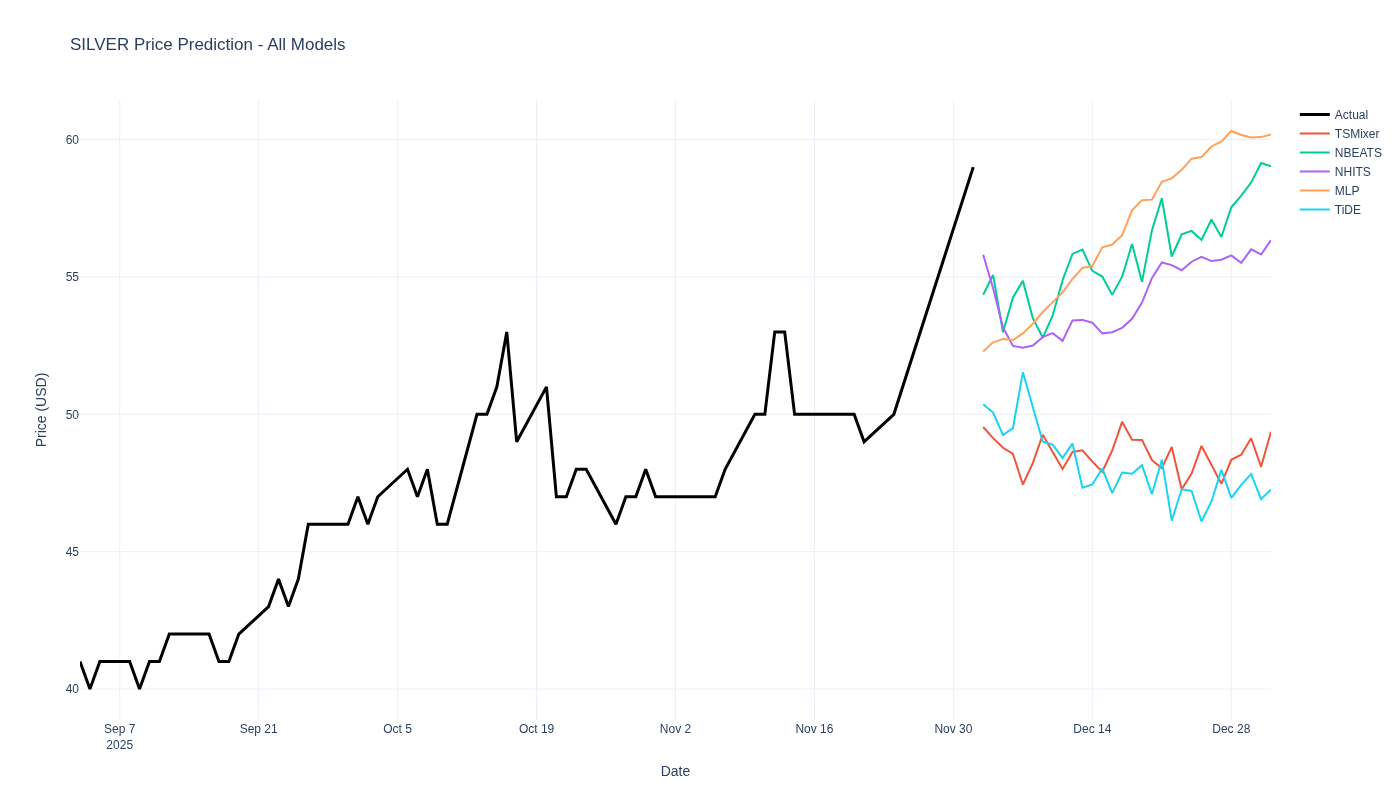
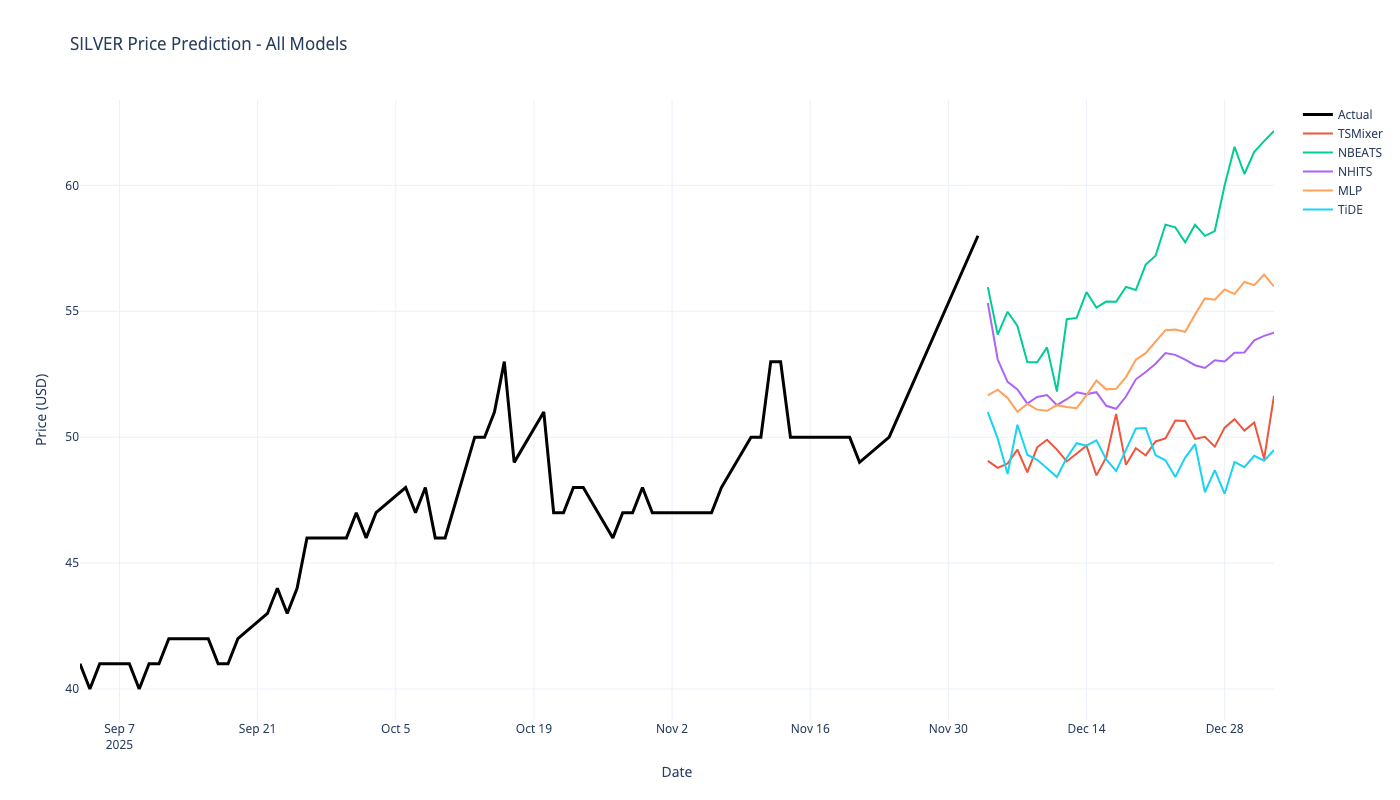
[PERF] update eth hyperparams

diff --git a/update_silver.py b/update_silver.py
@@ -13,19 +13,19 @@ slv_df.insert(0, "unique_id", "1.0")
 horizon = 30
 
 models = [
-    TSMixer(h=horizon, n_series=1, input_size=504, n_block=6, ff_dim=256, dropout=0.4,
-            revin=True, max_steps=350, learning_rate=5e-4, scaler_type="robust", batch_size=24),
-    NBEATS(h=horizon, input_size=336, max_steps=350, learning_rate=8e-4, scaler_type="robust",
-           n_blocks=[4, 4], mlp_units=[[512, 512], [512, 512]], 
-           stack_types=["trend", "seasonality"], batch_size=24),
-    NHITS(h=horizon, input_size=720, max_steps=350, learning_rate=7e-4, scaler_type="robust",
-          n_freq_downsample=[12, 6, 1], interpolation_mode="linear", pooling_mode="MaxPool1d", 
-          n_pool_kernel_size=[12, 6, 1], batch_size=16),
-    MLP(h=horizon, input_size=252, max_steps=300, learning_rate=8e-4, scaler_type="robust",
-        num_layers=4, hidden_size=512, batch_size=24),
-    TiDE(h=horizon, input_size=1008, max_steps=350, learning_rate=6e-4, scaler_type="robust",
-         hidden_size=512, num_encoder_layers=3, num_decoder_layers=2, decoder_output_dim=32,
-         temporal_width=8, batch_size=16),
+    TSMixer(h=horizon, n_series=1, input_size=504, n_block=4, ff_dim=128, dropout=0.5,
+            revin=True, max_steps=350, learning_rate=3e-4, scaler_type="robust", batch_size=32),
+    NBEATS(h=horizon, input_size=252, max_steps=350, learning_rate=5e-4, scaler_type="robust",
+           n_blocks=[3, 3, 3], mlp_units=[[512, 512], [512, 512], [512, 512]],
+           stack_types=["trend", "seasonality", "seasonality"], batch_size=32),
+    NHITS(h=horizon, input_size=504, max_steps=350, learning_rate=5e-4, scaler_type="robust",
+          n_freq_downsample=[20, 5, 1], interpolation_mode="cubic", pooling_mode="MaxPool1d",
+          n_pool_kernel_size=[3, 3, 3], batch_size=32),
+    MLP(h=horizon, input_size=126, max_steps=350, learning_rate=1e-3, scaler_type="robust",
+        num_layers=2, hidden_size=256, batch_size=64),
+    TiDE(h=horizon, input_size=504, max_steps=350, learning_rate=3e-4, scaler_type="robust",
+         hidden_size=256, num_encoder_layers=2, num_decoder_layers=2, decoder_output_dim=16,
+         temporal_width=4, batch_size=32, dropout=0.3),
 ]
 
 print("Training models...")
